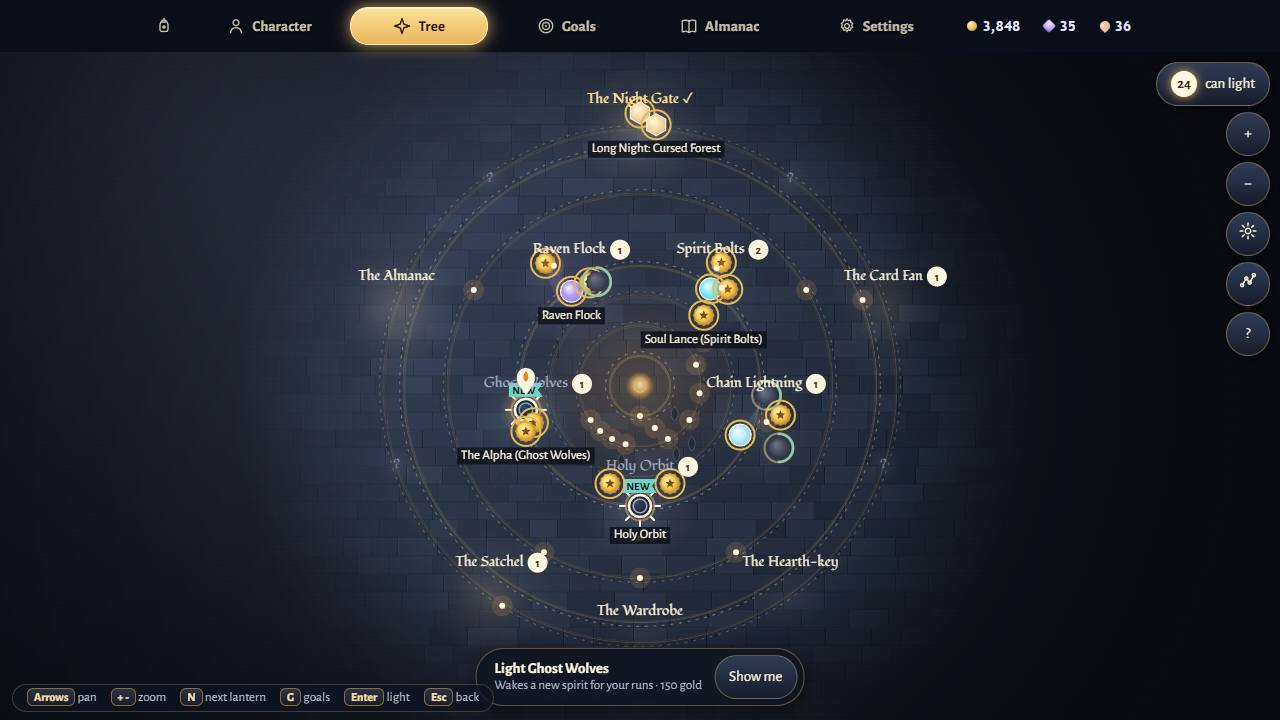
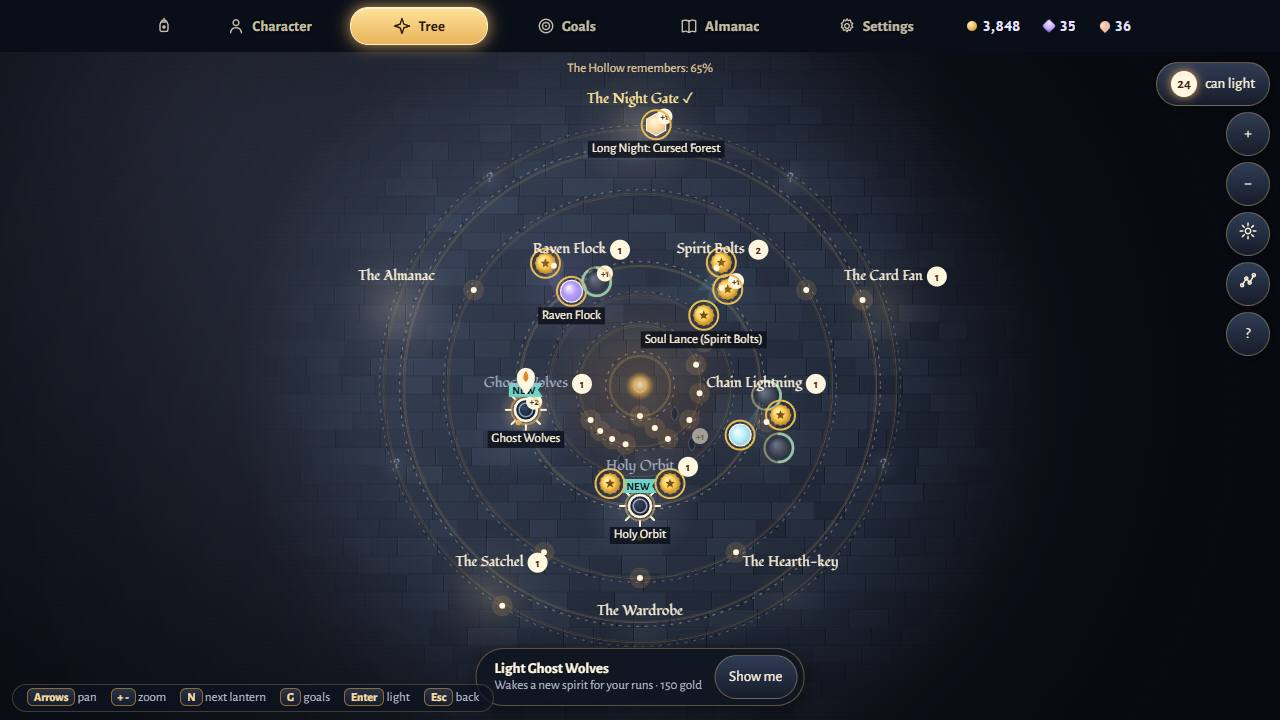
Q1a fixes: FAR landmark collapse badge, docked remembers line, reconciled tier/zoom table, hover shots

diff --git a/src/ui/treescreen.js b/src/ui/treescreen.js
@@ -483,9 +483,34 @@ export class TreeScreen {
   ukNow() { const v = Number(document.documentElement.style.getPropertyValue('--uik')); return v >= 1 && v <= 1.6 ? v : 1; }
   /** Q1a: on-screen radius of a lantern = half its tier diameter (scaled to its neighbours, see meta/treetier.js) x zoom, never under the tier floor. */
   radiusOf(id, lod) { const t = this.tiers.tier[id] || 'dot'; const d = this.tiers.d[id]; return screenDiameter(t, Number.isFinite(d) ? d : TIER_SIZE[t], this.cam.z, this.uk || 1) / 2; }
+  /** FAR only: greedy collapse of landmarks that would overlap on screen. Returns Map id -> leader id (leaders map to themselves); this.farCount = leader -> how many hidden behind it. */
+  collapseFar(ids) {
+    const pri = { ready: 0, open: 1, challenge: 2, lit: 3, notyet: 4, fog: 5 };
+    const best = this.model.best && this.model.best.id;
+    const L = [];
+    for (const id of ids) {
+      if (this.tierOfId(id) !== 'landmark') continue;
+      const s = this.model.cache[id].s;
+      if (s === 'fog') continue;
+      const n = this.def.nodes[id]; const [x, y] = this.toS(n.x, n.y);
+      if (x < -30 || x > this.W + 30 || y < -30 || y > this.H + 30) continue;
+      L.push({ id, x, y, r: this.radiusOf(id, 'far'), k: id === this.selected ? -2 : id === best ? -1 : pri[s] ?? 6 });
+    }
+    L.sort((a, b) => a.k - b.k || (a.id < b.id ? -1 : 1));
+    const map = new Map(); this.farCount = new Map(); const leaders = [];
+    for (const a of L) {
+      const lead = leaders.find((b) => Math.hypot(a.x - b.x, a.y - b.y) < (a.r + b.r) * 1.05);
+      if (lead) { map.set(a.id, lead.id); this.farCount.set(lead.id, (this.farCount.get(lead.id) || 0) + 1); } else { map.set(a.id, a.id); leaders.push(a); this.farCount.set(a.id, 0); }
+    }
+    return map;
+  }
+  countBadge(c, x, y, n) {
+    c.fillStyle = '#fff6e0'; c.beginPath(); c.arc(x, y, 8 * (this.uk || 1), 0, 7); c.fill();
+    c.fillStyle = '#3a2412'; c.font = `bold ${10 * (this.uk || 1)}px ${FONT_UI}`; c.textAlign = 'center'; c.textBaseline = 'middle'; c.fillText(`+${n}`, x, y + 0.5);
+  }
   tierOfId(id) { return this.tiers.tier[id] || 'dot'; }
   /** Drawn (and tappable) at this zoom? FAR = landmarks, plus any lantern you can light now (a small glowing dot). */
-  shownAt(id, lod) { return tierShown(this.tierOfId(id), lod) || this.model.cache[id].s === 'ready' || id === this.selected; }
+  shownAt(id, lod) { if (lod === 'far' && this.farMerged && this.farMerged.has(id) && this.farMerged.get(id) !== id && id !== this.selected) return false; return tierShown(this.tierOfId(id), lod) || this.model.cache[id].s === 'ready' || id === this.selected; }
 
   draw(t) {
     const c = this.ctx;
@@ -535,6 +560,7 @@ export class TreeScreen {
     const DIMA = [1, 0.2, 0.35, 0.55];
     const dot = (style, dim, x, y, r) => { const k = dim ? `D${dim}${style}` : style; let pa = batches.get(k); if (!pa) { pa = new Path2D(); batches.set(k, pa); } pa.moveTo(x + r, y); pa.arc(x, y, r, 0, 6.2832); };
     const ids = this.idsIn(vx0, vy0, vx1, vy1);
+    const merged = this.farMerged = far ? this.collapseFar(ids) : new Map(); // FAR: landmarks closer than their drawn size collapse into one badge with a count
     for (let i = 0; i < ids.length; i++) {
       const id = ids[i];
       const n = this.def.nodes[id];
@@ -545,6 +571,7 @@ export class TreeScreen {
       if (s === 'fog' && lod !== 'near') continue;
       const dim = this.onlyLight && s !== 'ready' ? 1 : selR && s !== 'ready' && m.region(id) !== selR ? 2 : far && !this.selected && s === 'notyet' ? 3 : 0;
       const tier = this.tierOfId(id);
+      if (far && merged.has(id) && merged.get(id) !== id) continue;
       if (far && tier !== 'landmark') { // FAR shows landmarks only; a lantern you can light now is a small glowing dot (batched)
         if (s === 'ready') { const r = 3 * this.uk; dot('rgba(255,179,90,.14)', false, sx, sy, r + 5 + 5 * pulse); dot('#fff6e0', false, sx, sy, r); this.animNeeded = true; }
         continue;
@@ -553,6 +580,7 @@ export class TreeScreen {
       c.globalAlpha = DIMA[dim];
       if (s === 'ready') { this.affordMark(c, sx, sy, r, pulse, false, best && best.id === id); this.animNeeded = true; }
       this.nodeShape(c, n, sx, sy, r, s, ce, id, lod);
+      if (far && merged.get(id) === id && this.farCount.get(id) > 0) this.countBadge(c, sx + r * 0.75, sy - r * 0.75, this.farCount.get(id));
       if (tier === 'landmark' && s !== 'fog' && s !== 'notyet') { c.strokeStyle = s === 'lit' ? '#e6b955' : 'rgba(216,178,106,.55)'; c.lineWidth = 2; c.beginPath(); c.arc(sx, sy, r + 3.5, 0, 7); c.stroke(); } // medallion rim
       if (ce.fresh) this.newFlag(c, sx, sy - r - 9);
       if (this.selected === id) { c.strokeStyle = '#6fd3c5'; c.lineWidth = 2; c.setLineDash([4, 3]); c.beginPath(); c.arc(sx, sy, r + 10, 0, 7); c.stroke(); c.setLineDash([]); }
@@ -579,10 +607,10 @@ export class TreeScreen {
     c.strokeStyle = '#d8b26a'; c.lineWidth = Math.max(1.5, 3 * z);
     c.beginPath(); c.arc(hx, hy, lr * 0.75, 0, 7); c.stroke();
     if (lod === 'far') {
-      const ty = hy + (this.view.nearHub - 10) * z;
-      if (!this.lastRB.some((b) => b.x0 < hx + 90 && b.x1 > hx - 90 && b.y0 < ty + 16 && b.y1 > ty)) {
+      const ty = 10 * (this.uk || 1); // docked at the top of the map, never among the landmarks
+      if (!this.lastRB.some((b) => b.x0 < W / 2 + 100 && b.x1 > W / 2 - 100 && b.y0 < ty + 18 && b.y1 > ty)) {
         c.font = `${13 * (this.uk || 1)}px ${FONT_UI}`; c.fillStyle = 'rgba(255,217,160,.9)'; c.textAlign = 'center'; c.textBaseline = 'top';
-        c.fillText(`The Hollow remembers: ${Math.round(p * 100)}%`, hx, ty);
+        c.fillText(`The Hollow remembers: ${Math.round(p * 100)}%`, W / 2, ty);
       }
     }
     if (best) this.drawBestMarker(c, t, lod);

diff --git a/docs/design/skill-tree-rework-v2.md b/docs/design/skill-tree-rework-v2.md
@@ -97,3 +97,11 @@ Security check: docs only. Planned: one new hint bit (HINT_COUNT 14) via sanitiz
 - Draw diameter at zoom 1 = min(76 / 26 / 9, 0.9 x distance to nearest same-or-higher-tier neighbour); a second pass shrinks the bigger medallion beside a closer smaller one (down to what leaves the small one its floor). Measured: no pair overlaps; 13 of 27 landmarks are scaled below 76 (smallest 31). On screen x zoom, never under 22 / 10 / 4 px.
 - Zoom: FAR = landmarks (+ lanterns you can light now as small glowing dots); MID = all tiers (dots stay as 4 px specks so trails never dangle: a deliberate deviation from 'MID + diamonds only'); NEAR = all. Names: FAR lit/next landmarks, MID landmark+diamond+can-light, NEAR as before (dots included).
 - Backdrop (src/gfx/treebg.js): world layer baked once per size class (desktop 0.42x, phone 0.26x, no speckle), screen layer (moon haze, vignette) at half res; per frame one drawImage each + additive region washes + gold ring arcs (lit fraction per ring band). No animation.
+
+### Q1a tables reconciled (AUTHORITATIVE over v1 2.1; fixes in the same chunk)
+| Tier | FAR | MID | NEAR | Name |
+|---|---|---|---|---|
+| Landmark | drawn; landmarks closer than their drawn size collapse into the leader (ready > best > open > lit) with a '+N' badge; name for lit / open / can-light / best only | drawn | drawn | lit/next only at FAR; all but not-yet at MID and NEAR |
+| Diamond | hidden (unless you can light it now: small glowing dot) | drawn | drawn | MID and NEAR (not-yet ones unnamed) |
+| Dot | hidden (same exception) | drawn as a faint 4 px speck (DELIBERATE CHOICE, Matt to confirm: so trails never dangle; the alternative is hiding them, which breaks links) | drawn | NEAR only (v1 tier table said 'never named', zoom table said NEAR names all: the zoom table is what shipped); never named at FAR or MID; select or hover shows the banner |
+Also: 'The Hollow remembers: N%' is docked at the top of the map at FAR (it used to sit under the hub and collided with landmarks).
